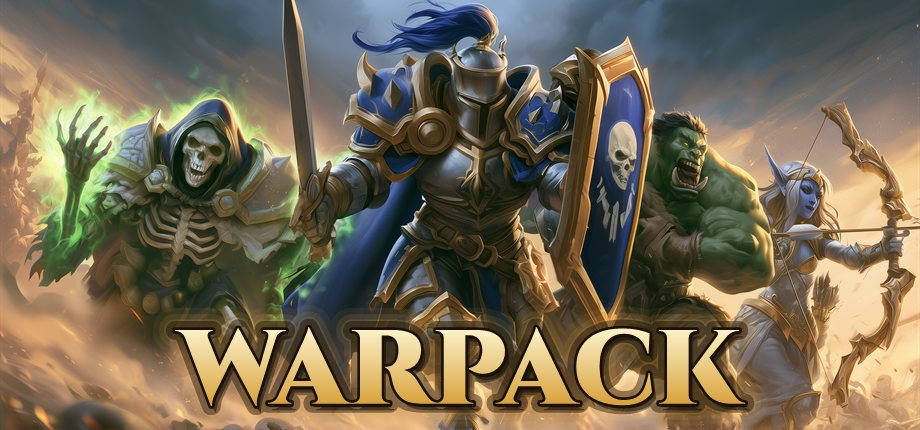
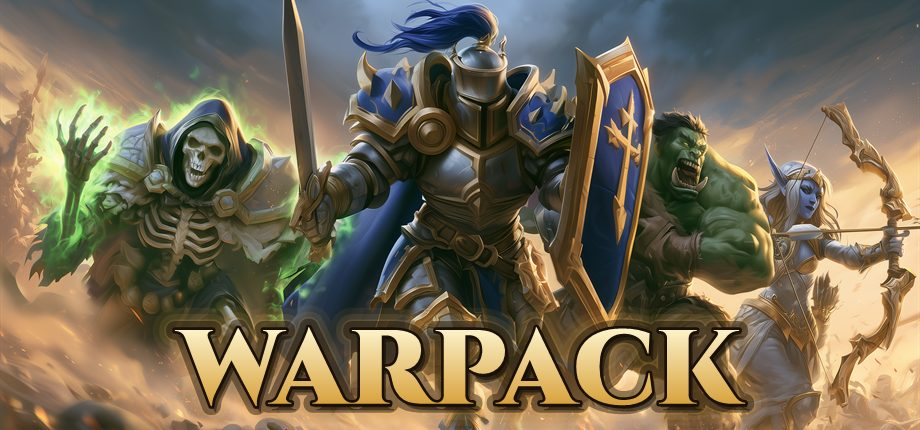
Warpack-arten uppdaterad till senaste korningen, plus logga i temasidorna
Arten pa sidan kom fran en gammal Warpack-korning. Kallorna ligger i
Warpack/docs/capsules/out/ daterade 2026-08-17. Skillnaden syns tydligast
pa skolden, som gatt fran dodskalle till korsat svard, och pa en tightare
komposition.

Fem bilder utbytta:

  img/art-02.jpg                      spelpanelen, header-capsule 920x430
  press/images/warpack-key-art.jpg    samma, till presskitet
  press/images/...hero-art.jpg        studio hero art, ren nyckelbild 1438x810
  og.jpg                              delningskortet, ombyggt
  press/images/...share-card.jpg      samma

DELNINGSKORTET var varst: delade nagon lanken fick de gamla arten, den
gamla bla tonen och ingen logga. Det ar ombyggt fran grunden pa den nya
nyckelbilden, med studions riktiga logga overst, titeln i de nya fargerna
och sidans nya botten som sloja. Charter hamtades ur sidans egen
woff2-fil och konverterades till TTF, sa kortet ar satt i samma typsnitt
som sidan i stallet for en ersattare.

En mjuk fordunkling ligger bakom sjalva lockupen. Utan den slogs loggan
mot riddarens hjalm och texten mot skolden.

TEMASIDORNA fick samma loggafix som startsidan: inbakad skugga i stallet
for CSS-filter, och picture med PNG-reserv. Annars hade de visat samma
vita ruta pa mobil som just ratades ut.

diff --git a/themes/a.html b/themes/a.html
@@ -32,8 +32,8 @@ body{margin:0;background:var(--ground);color:var(--ink);
 canvas.sim{position:absolute;inset:0;width:100%;height:100%;display:block}
 .wrap{position:relative;z-index:1;max-width:1080px;margin:0 auto;
   padding:clamp(52px,10vw,92px) 22px;text-align:center}
-.mark{display:block;width:clamp(96px,15vw,148px);height:auto;margin:0 auto 14px;
-  filter:drop-shadow(0 6px 26px rgba(0,0,0,.65))}
+picture{display:block}
+.mark{display:block;width:clamp(112px,17.5vw,172px);height:auto;margin:-12px auto 4px}
 h1{font:400 clamp(32px,7.4vw,62px)/1.05 var(--display);letter-spacing:.07em;
   text-transform:uppercase;margin:0;color:#e3dccb}
 h1 em{font-style:normal;color:#dcae52}
@@ -63,8 +63,10 @@ code{background:var(--raised);border:1px solid var(--rule);border-radius:4px;
   <div class="hero-art"></div><div class="hero-veil"></div>
   <canvas class="sim"></canvas>
   <div class="wrap">
-    <img class="mark" src="/press/images/n1ghtmare-studios-logo.webp" alt=""
-         width="320" height="320" decoding="async">
+    <picture>
+      <source srcset="/img/logo.webp" type="image/webp">
+      <img class="mark" src="/img/logo.png" alt="" width="388" height="388" decoding="async">
+    </picture>
     <h1>N1ghtmare <em>Studios</em></h1>
     <div class="crest"><span></span><i></i><span></span></div>
     <p class="motto">Made in the dark.<b>Bring a light.</b></p>

diff --git a/themes/b.html b/themes/b.html
@@ -32,8 +32,8 @@ body{margin:0;background:var(--ground);color:var(--ink);
 canvas.sim{position:absolute;inset:0;width:100%;height:100%;display:block}
 .wrap{position:relative;z-index:1;max-width:1080px;margin:0 auto;
   padding:clamp(52px,10vw,92px) 22px;text-align:center}
-.mark{display:block;width:clamp(96px,15vw,148px);height:auto;margin:0 auto 14px;
-  filter:drop-shadow(0 6px 26px rgba(0,0,0,.65))}
+picture{display:block}
+.mark{display:block;width:clamp(112px,17.5vw,172px);height:auto;margin:-12px auto 4px}
 h1{font:400 clamp(32px,7.4vw,62px)/1.05 var(--display);letter-spacing:.07em;
   text-transform:uppercase;margin:0;color:#e3dccb}
 h1 em{font-style:normal;color:#dcae52}
@@ -63,8 +63,10 @@ code{background:var(--raised);border:1px solid var(--rule);border-radius:4px;
   <div class="hero-art"></div><div class="hero-veil"></div>
   <canvas class="sim"></canvas>
   <div class="wrap">
-    <img class="mark" src="/press/images/n1ghtmare-studios-logo.webp" alt=""
-         width="320" height="320" decoding="async">
+    <picture>
+      <source srcset="/img/logo.webp" type="image/webp">
+      <img class="mark" src="/img/logo.png" alt="" width="388" height="388" decoding="async">
+    </picture>
     <h1>N1ghtmare <em>Studios</em></h1>
     <div class="crest"><span></span><i></i><span></span></div>
     <p class="motto">Made in the dark.<b>Bring a light.</b></p>

diff --git a/themes/c.html b/themes/c.html
@@ -32,8 +32,8 @@ body{margin:0;background:var(--ground);color:var(--ink);
 canvas.sim{position:absolute;inset:0;width:100%;height:100%;display:block}
 .wrap{position:relative;z-index:1;max-width:1080px;margin:0 auto;
   padding:clamp(52px,10vw,92px) 22px;text-align:center}
-.mark{display:block;width:clamp(96px,15vw,148px);height:auto;margin:0 auto 14px;
-  filter:drop-shadow(0 6px 26px rgba(0,0,0,.65))}
+picture{display:block}
+.mark{display:block;width:clamp(112px,17.5vw,172px);height:auto;margin:-12px auto 4px}
 h1{font:400 clamp(32px,7.4vw,62px)/1.05 var(--display);letter-spacing:.07em;
   text-transform:uppercase;margin:0;color:#e3dccb}
 h1 em{font-style:normal;color:#dcae52}
@@ -63,8 +63,10 @@ code{background:var(--raised);border:1px solid var(--rule);border-radius:4px;
   <div class="hero-art"></div><div class="hero-veil"></div>
   <canvas class="sim"></canvas>
   <div class="wrap">
-    <img class="mark" src="/press/images/n1ghtmare-studios-logo.webp" alt=""
-         width="320" height="320" decoding="async">
+    <picture>
+      <source srcset="/img/logo.webp" type="image/webp">
+      <img class="mark" src="/img/logo.png" alt="" width="388" height="388" decoding="async">
+    </picture>
     <h1>N1ghtmare <em>Studios</em></h1>
     <div class="crest"><span></span><i></i><span></span></div>
     <p class="motto">Made in the dark.<b>Bring a light.</b></p>

diff --git a/themes/d.html b/themes/d.html
@@ -32,8 +32,8 @@ body{margin:0;background:var(--ground);color:var(--ink);
 canvas.sim{position:absolute;inset:0;width:100%;height:100%;display:block}
 .wrap{position:relative;z-index:1;max-width:1080px;margin:0 auto;
   padding:clamp(52px,10vw,92px) 22px;text-align:center}
-.mark{display:block;width:clamp(96px,15vw,148px);height:auto;margin:0 auto 14px;
-  filter:drop-shadow(0 6px 26px rgba(0,0,0,.65))}
+picture{display:block}
+.mark{display:block;width:clamp(112px,17.5vw,172px);height:auto;margin:-12px auto 4px}
 h1{font:400 clamp(32px,7.4vw,62px)/1.05 var(--display);letter-spacing:.07em;
   text-transform:uppercase;margin:0;color:#e3dccb}
 h1 em{font-style:normal;color:#dcae52}
@@ -63,8 +63,10 @@ code{background:var(--raised);border:1px solid var(--rule);border-radius:4px;
   <div class="hero-art"></div><div class="hero-veil"></div>
   <canvas class="sim"></canvas>
   <div class="wrap">
-    <img class="mark" src="/press/images/n1ghtmare-studios-logo.webp" alt=""
-         width="320" height="320" decoding="async">
+    <picture>
+      <source srcset="/img/logo.webp" type="image/webp">
+      <img class="mark" src="/img/logo.png" alt="" width="388" height="388" decoding="async">
+    </picture>
     <h1>N1ghtmare <em>Studios</em></h1>
     <div class="crest"><span></span><i></i><span></span></div>
     <p class="motto">Made in the dark.<b>Bring a light.</b></p>

diff --git a/themes/e.html b/themes/e.html
@@ -32,8 +32,8 @@ body{margin:0;background:var(--ground);color:var(--ink);
 canvas.sim{position:absolute;inset:0;width:100%;height:100%;display:block}
 .wrap{position:relative;z-index:1;max-width:1080px;margin:0 auto;
   padding:clamp(52px,10vw,92px) 22px;text-align:center}
-.mark{display:block;width:clamp(96px,15vw,148px);height:auto;margin:0 auto 14px;
-  filter:drop-shadow(0 6px 26px rgba(0,0,0,.65))}
+picture{display:block}
+.mark{display:block;width:clamp(112px,17.5vw,172px);height:auto;margin:-12px auto 4px}
 h1{font:400 clamp(32px,7.4vw,62px)/1.05 var(--display);letter-spacing:.07em;
   text-transform:uppercase;margin:0;color:#e3dccb}
 h1 em{font-style:normal;color:#dcae52}
@@ -63,8 +63,10 @@ code{background:var(--raised);border:1px solid var(--rule);border-radius:4px;
   <div class="hero-art"></div><div class="hero-veil"></div>
   <canvas class="sim"></canvas>
   <div class="wrap">
-    <img class="mark" src="/press/images/n1ghtmare-studios-logo.webp" alt=""
-         width="320" height="320" decoding="async">
+    <picture>
+      <source srcset="/img/logo.webp" type="image/webp">
+      <img class="mark" src="/img/logo.png" alt="" width="388" height="388" decoding="async">
+    </picture>
     <h1>N1ghtmare <em>Studios</em></h1>
     <div class="crest"><span></span><i></i><span></span></div>
     <p class="motto">Made in the dark.<b>Bring a light.</b></p>

diff --git a/themes/f.html b/themes/f.html
@@ -32,8 +32,8 @@ body{margin:0;background:var(--ground);color:var(--ink);
 canvas.sim{position:absolute;inset:0;width:100%;height:100%;display:block}
 .wrap{position:relative;z-index:1;max-width:1080px;margin:0 auto;
   padding:clamp(52px,10vw,92px) 22px;text-align:center}
-.mark{display:block;width:clamp(96px,15vw,148px);height:auto;margin:0 auto 14px;
-  filter:drop-shadow(0 6px 26px rgba(0,0,0,.65))}
+picture{display:block}
+.mark{display:block;width:clamp(112px,17.5vw,172px);height:auto;margin:-12px auto 4px}
 h1{font:400 clamp(32px,7.4vw,62px)/1.05 var(--display);letter-spacing:.07em;
   text-transform:uppercase;margin:0;color:#e3dccb}
 h1 em{font-style:normal;color:#dcae52}
@@ -63,8 +63,10 @@ code{background:var(--raised);border:1px solid var(--rule);border-radius:4px;
   <div class="hero-art"></div><div class="hero-veil"></div>
   <canvas class="sim"></canvas>
   <div class="wrap">
-    <img class="mark" src="/press/images/n1ghtmare-studios-logo.webp" alt=""
-         width="320" height="320" decoding="async">
+    <picture>
+      <source srcset="/img/logo.webp" type="image/webp">
+      <img class="mark" src="/img/logo.png" alt="" width="388" height="388" decoding="async">
+    </picture>
     <h1>N1ghtmare <em>Studios</em></h1>
     <div class="crest"><span></span><i></i><span></span></div>
     <p class="motto">Made in the dark.<b>Bring a light.</b></p>

diff --git a/themes/g.html b/themes/g.html
@@ -32,8 +32,8 @@ body{margin:0;background:var(--ground);color:var(--ink);
 canvas.sim{position:absolute;inset:0;width:100%;height:100%;display:block}
 .wrap{position:relative;z-index:1;max-width:1080px;margin:0 auto;
   padding:clamp(52px,10vw,92px) 22px;text-align:center}
-.mark{display:block;width:clamp(96px,15vw,148px);height:auto;margin:0 auto 14px;
-  filter:drop-shadow(0 6px 26px rgba(0,0,0,.65))}
+picture{display:block}
+.mark{display:block;width:clamp(112px,17.5vw,172px);height:auto;margin:-12px auto 4px}
 h1{font:400 clamp(32px,7.4vw,62px)/1.05 var(--display);letter-spacing:.07em;
   text-transform:uppercase;margin:0;color:#e3dccb}
 h1 em{font-style:normal;color:#dcae52}
@@ -63,8 +63,10 @@ code{background:var(--raised);border:1px solid var(--rule);border-radius:4px;
   <div class="hero-art"></div><div class="hero-veil"></div>
   <canvas class="sim"></canvas>
   <div class="wrap">
-    <img class="mark" src="/press/images/n1ghtmare-studios-logo.webp" alt=""
-         width="320" height="320" decoding="async">
+    <picture>
+      <source srcset="/img/logo.webp" type="image/webp">
+      <img class="mark" src="/img/logo.png" alt="" width="388" height="388" decoding="async">
+    </picture>
     <h1>N1ghtmare <em>Studios</em></h1>
     <div class="crest"><span></span><i></i><span></span></div>
     <p class="motto">Made in the dark.<b>Bring a light.</b></p>

diff --git a/themes/h.html b/themes/h.html
@@ -32,8 +32,8 @@ body{margin:0;background:var(--ground);color:var(--ink);
 canvas.sim{position:absolute;inset:0;width:100%;height:100%;display:block}
 .wrap{position:relative;z-index:1;max-width:1080px;margin:0 auto;
   padding:clamp(52px,10vw,92px) 22px;text-align:center}
-.mark{display:block;width:clamp(96px,15vw,148px);height:auto;margin:0 auto 14px;
-  filter:drop-shadow(0 6px 26px rgba(0,0,0,.65))}
+picture{display:block}
+.mark{display:block;width:clamp(112px,17.5vw,172px);height:auto;margin:-12px auto 4px}
 h1{font:400 clamp(32px,7.4vw,62px)/1.05 var(--display);letter-spacing:.07em;
   text-transform:uppercase;margin:0;color:#e3dccb}
 h1 em{font-style:normal;color:#dcae52}
@@ -63,8 +63,10 @@ code{background:var(--raised);border:1px solid var(--rule);border-radius:4px;
   <div class="hero-art"></div><div class="hero-veil"></div>
   <canvas class="sim"></canvas>
   <div class="wrap">
-    <img class="mark" src="/press/images/n1ghtmare-studios-logo.webp" alt=""
-         width="320" height="320" decoding="async">
+    <picture>
+      <source srcset="/img/logo.webp" type="image/webp">
+      <img class="mark" src="/img/logo.png" alt="" width="388" height="388" decoding="async">
+    </picture>
     <h1>N1ghtmare <em>Studios</em></h1>
     <div class="crest"><span></span><i></i><span></span></div>
     <p class="motto">Made in the dark.<b>Bring a light.</b></p>
